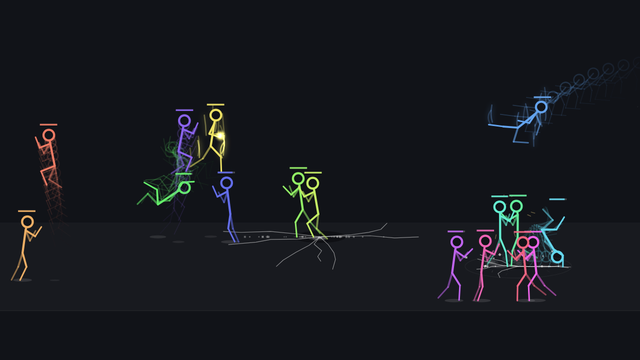
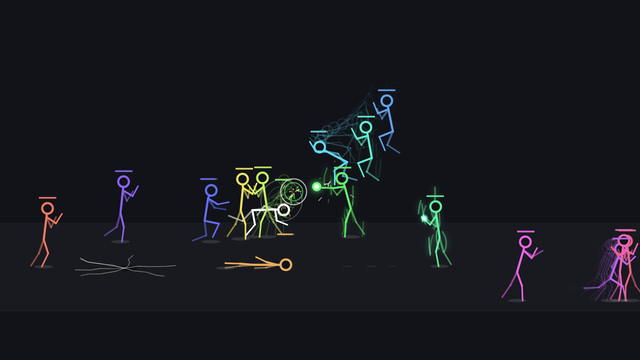
docs: re-record the pictures and demo, and fix the README's flash wording
The fixes for #493-#508 change what the fight looks like and shift the
random sequence, so demo.gif and every picture in docs/images/ are
recorded again. demo.gif uses seed 19, whose scan shows all eight styles.
styles-magic moves to seed 9 and items to seed 4, so each clip again shows
what its caption names, and Show score moves to seed 2, which reads
RED 1 : 0 BLUE after a red win, as its caption says.

README.md names the energy beam, not the blast, as the source of the
flash, and all three READMEs say the setting also hides the dash speed
lines. AGENTS.md says the check covers only the GIFs, so each still is
looked at by hand.

Closes #509

diff --git a/AGENTS.md b/AGENTS.md
@@ -47,7 +47,9 @@ item drop or move no longer shows needs another seed or start in the list.
 Then run the check: it replays each GIF in the browser, as the recorder does,
 and fails when an event its `shows` field names (the caption's moves, a
 flash, the item that drops, a fighter launched by the click) does not happen
-in the clip.
+in the clip. The check covers only the GIFs: nothing checks a still PNG, so
+look at each one against its caption yourself (the score in Show score, the
+crown in King).
 
 ```bash
 node scripts/record-settings.mjs                  # every picture

diff --git a/README.md b/README.md
@@ -71,8 +71,8 @@ off.
 ### Reduce flashing and screen shake
 
 "Reduce flashing and screen shake" is on by default: it hides the
-full-screen white flash of energy blasts and lightning and the speed lines of
-big hits, and stops the screen shaking. Turn it off for the full comic look,
+full-screen white flash of energy beams and lightning, the speed lines of big
+hits and dashes, and stops the screen shaking. Turn it off for the full comic look,
 as below.
 
 ![The full comic look with flashes, speed lines and screen shake](docs/images/reduce-motion-off.gif)

diff --git a/README.zh-TW.md b/README.zh-TW.md
@@ -61,7 +61,7 @@
 
 ### 減少閃光與畫面震動
 
-「減少閃光與畫面震動」預設開啟：它會隱藏氣功波和雷擊的全螢幕白色閃光、重擊的速度線，
+「減少閃光與畫面震動」預設開啟：它會隱藏氣功波和雷擊的全螢幕白色閃光、重擊和衝刺的速度線，
 並停止畫面震動。關掉它就是完整的漫畫效果，如下圖。
 
 ![完整漫畫效果：閃光、速度線和畫面震動](docs/images/reduce-motion-off.gif)

diff --git a/README.zh-CN.md b/README.zh-CN.md
@@ -61,7 +61,7 @@
 
 ### 减少闪光与画面震动
 
-“减少闪光与画面震动”默认开启：它会隐藏气功波和雷击的全屏白色闪光、重击的速度线，
+“减少闪光与画面震动”默认开启：它会隐藏气功波和雷击的全屏白色闪光、重击和冲刺的速度线，
 并停止画面震动。关掉它就是完整的漫画效果，如下图。
 
 ![完整漫画效果：闪光、速度线和画面震动](docs/images/reduce-motion-off.gif)
